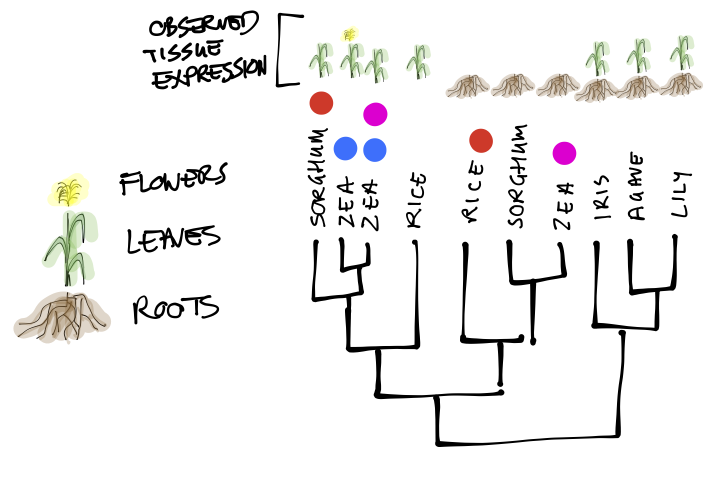
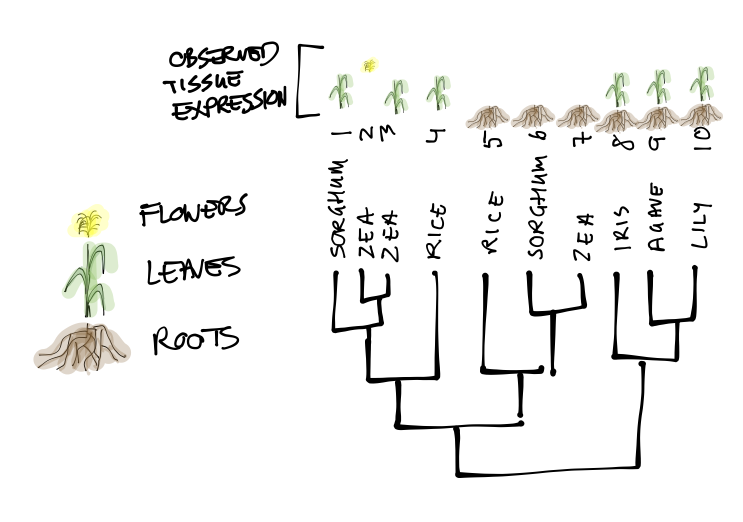
modified phylogeny question and image

diff --git a/exam_1.tex b/exam_1.tex
@@ -156,22 +156,22 @@ Buttercup & 4\\
 \item Use the phylogeny of the gene \emph{ahbp3} shown in figure \ref{duplicates} to answer the following questions.
 
 \begin{enumerate}
-\item What term would you use to describe the relationship between the copies of \emph{ahbp3} in rice and \emph{Sorghum} marked in red in figure \ref{duplicates}  (2 pts)? 
+\item What term would you use to describe the relationship between the  rice \#5 and \emph{Sorghum} \#1 copies of \emph{ahbp3} in figure \ref{duplicates}  (2 pts)? 
 %paralogs
-\item What evolutionary process would you ascribe to the gene copies in  \emph{Zea} marked in pink in figure \ref{duplicates} (2 pts)?
+\item What evolutionary process would you ascribe to gene copies \#3 and \#7 in \emph{Zea} in figure \ref{duplicates} (2 pts)?
 %subfunctionalization
-\item Which of the gene copies in \emph{Zea} marked in blue in figure \ref{duplicates} is more likely to be in a syntenic position relative to \emph{Sorghum} (2 pts)?
+\item Is \emph{Zea} copy \#2 or copy \#3 more in figure \ref{duplicates} more likely to be in a syntenic position relative to \emph{Sorghum} \#1 (2 pts)?
 %pink/blue
 \item In what tissue(s) do you think the gene copy ancestral to all the plants shown was expressed (2 pts)?
 %roots and leaves
-\item If you compare the sequence of the \emph{Zea }copy of \emph{ahbp3} expressed only in flowers to the \emph{ahbp3} locus in \emph{Agave}, what do you predict would be the relationship between nonsynonymous substitutions and synonymous substitutions (2 pts)?
+\item If you compare the sequence of the \emph{Zea} copy \#2 of \emph{ahbp3} expressed only in flowers to the \emph{ahbp3} locus in \emph{Agave} (\#9), what do you predict will be the relationship between nonsynonymous substitutions and synonymous substitutions (2 pts)?
 %dn/ds >1
 \end{enumerate}
 
 \begin{figure*}[h]
   \begin{center}
    \includegraphics[width=110mm]{images/examfig2.png}
-    \caption{Shown is a phylogenetic tree of the sequences of the \emph{ahbp3} locus in a groups of plants. The genus \emph{Zea} has 3 copies of this gene, while\emph{Sorghum} and rice each have two. Above the phylogeny is shown the tissues in which each copy is expressed. } 
+    \caption{Shown is a phylogenetic tree of the sequences of the \emph{ahbp3} locus in a groups of plants. The genus \emph{Zea} has 3 copies of this gene, while\emph{Sorghum} and rice each have two. Above the phylogeny is shown the tissues in which each copy is expressed. Genes are numbered for reference in the questions above.} 
 \label{duplicates}
   \end{center}
 \end{figure*}
